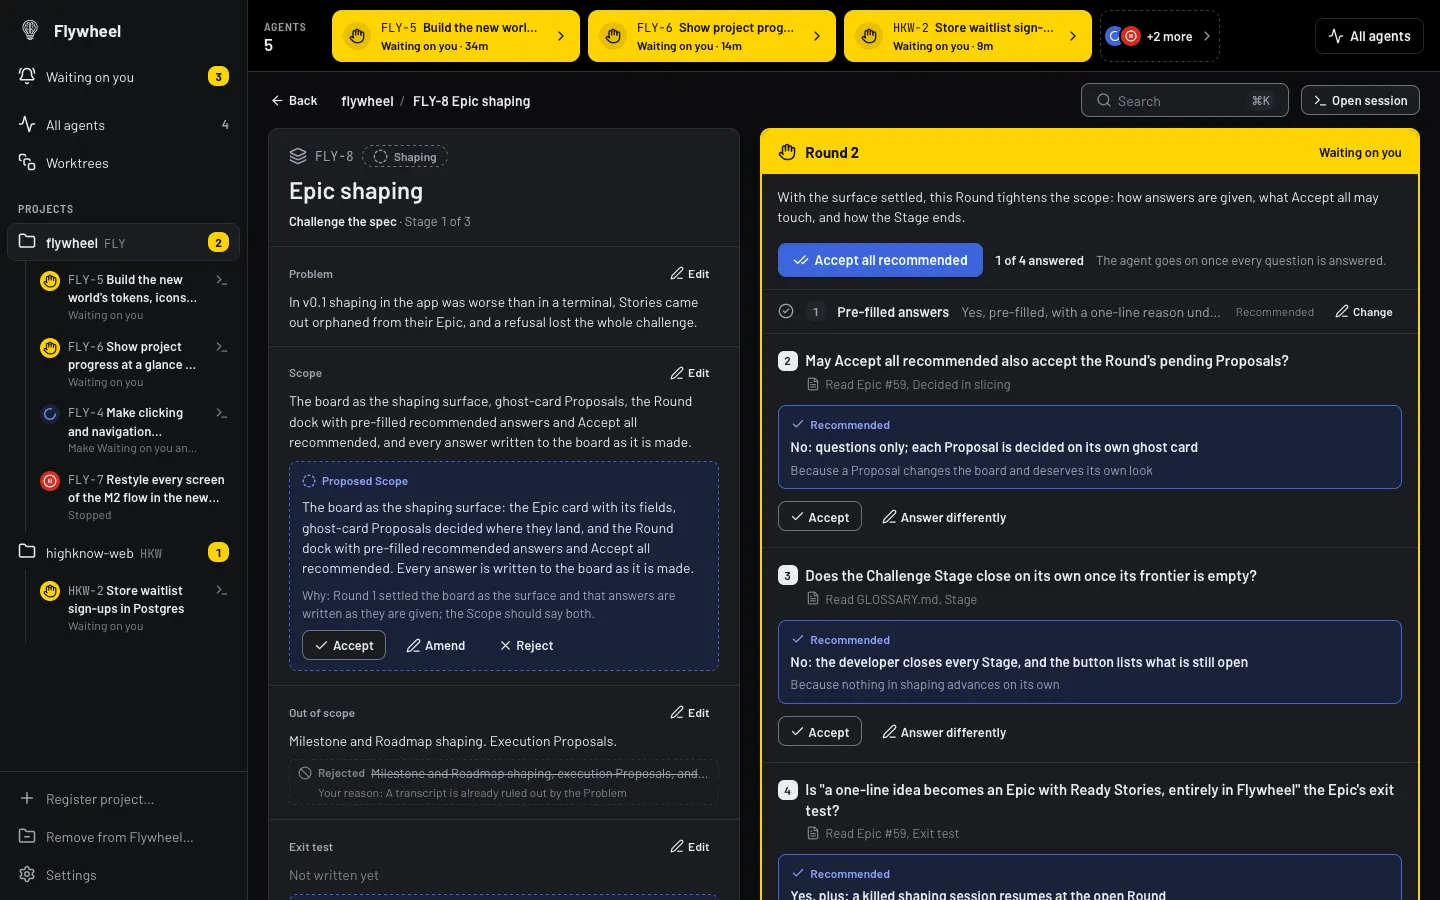
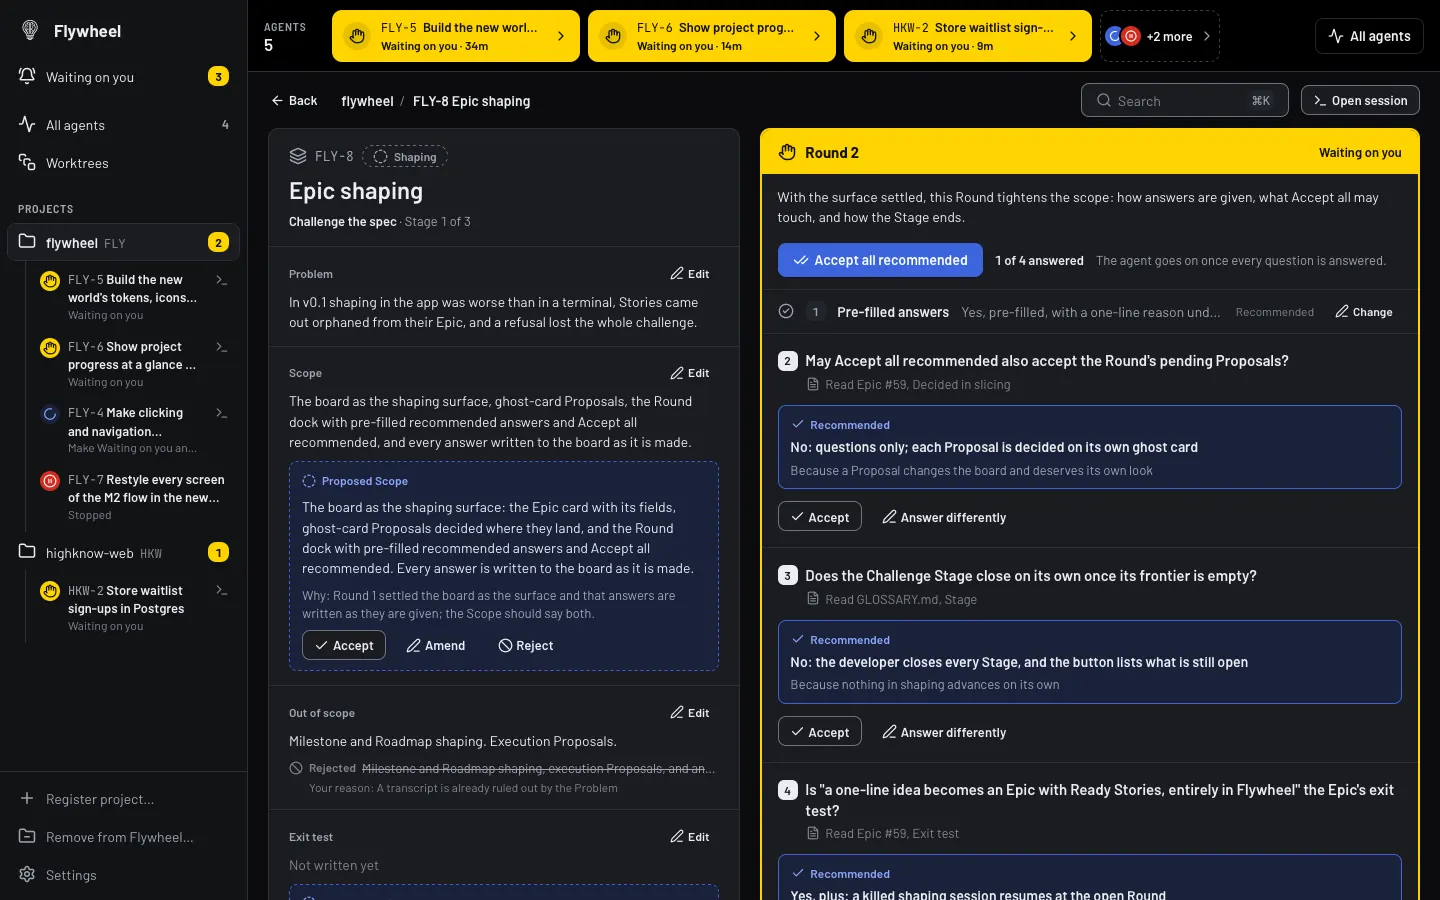
fix: the finish review's findings: a rejected line loses the dashed edge, Amend keeps the agent's why, focus returns on Cancel and lands on Edit once decided, Reject always wears ban, Accept edit's name matches its label, and a 900px screen

Changed region(s): [[0.1875, 0.84, 0.5, 0.9022], [0.1875, 0.9022, 0.5, 1.0]]

diff --git a/packages/desktop/src/shaping/GhostCard.tsx b/packages/desktop/src/shaping/GhostCard.tsx
@@ -13,7 +13,7 @@
  * Rejected, it shrinks to one struck-through line in secondary ink with the reason after it, so the Epic
  * card keeps what was turned down and why, without competing with the live field.
  */
-import { useId, useState, type FormEvent, type KeyboardEvent } from "react";
+import { useId, useRef, useState, type FormEvent, type KeyboardEvent } from "react";
 import { useQueryClient } from "@tanstack/react-query";
 import { Ban, Check, CircleDashed, PenLine, X } from "lucide-react";
 import { proposalAccept, proposalAmend, proposalReject, type ProposalDto } from "../adapters/tauri";
@@ -65,7 +65,7 @@ function RejectedLine({ text, label, reason }: { text: string; label: string; re
       role="group"
       aria-label={`Rejected ${label}`}
       data-state="rejected"
-      className="mt-2 flex min-w-0 flex-col gap-0.5 rounded-sm border border-dashed border-border px-2 py-1"
+      className="mt-2 flex min-w-0 flex-col gap-0.5"
     >
       <span className="flex min-w-0 items-center gap-1.5 text-small text-muted-foreground">
         <Ban aria-hidden="true" className="size-3.5 shrink-0 text-subtle-foreground" />
@@ -104,14 +104,20 @@ function PendingGhost({
   const [why, setWhy] = useState("");
   const [busy, setBusy] = useState(false);
   const [error, setError] = useState<string | null>(null);
+  const rootRef = useRef<HTMLDivElement>(null);
+  const amendRef = useRef<HTMLButtonElement>(null);
+  const rejectRef = useRef<HTMLButtonElement>(null);
 
   async function decide(write: () => Promise<void>) {
     if (busy) return;
     setBusy(true);
     setError(null);
+    // Once decided the ghost unmounts; the keyboard stays on the field, at its Edit button.
+    const fieldEdit = rootRef.current?.closest("dd")?.previousElementSibling?.querySelector("button") ?? null;
     try {
       await write();
       await queryClient.invalidateQueries({ queryKey });
+      fieldEdit?.focus();
     } catch (err) {
       setError(`Could not decide the proposed ${label}: ${reason(err)}`);
       setBusy(false);
@@ -132,12 +138,16 @@ function PendingGhost({
   }
 
   function cancel() {
+    const opener = mode === "amending" ? amendRef : rejectRef;
     setMode("idle");
     setError(null);
+    // Back to the control that opened the mode, once it is mounted again.
+    requestAnimationFrame(() => opener.current?.focus());
   }
 
   return (
     <div
+      ref={rootRef}
       role="group"
       aria-label={`Proposed ${label}`}
       data-state="pending"
@@ -150,6 +160,10 @@ function PendingGhost({
 
       {mode === "amending" ? (
         <form className="flex min-w-0 flex-col gap-2" onSubmit={submitAmend}>
+          {/* The agent's why stays in sight while the developer edits its text. */}
+          {proposal.rationale && (
+            <p className="m-0 max-w-[68ch] text-small break-words text-muted-foreground">Why: {proposal.rationale}</p>
+          )}
           <label htmlFor={draftId} className="sr-only">
             Your {label}
           </label>
@@ -170,7 +184,7 @@ function PendingGhost({
             }}
           />
           <div className="flex flex-wrap items-center gap-2">
-            <Button type="submit" variant="outline" size="sm" disabled={busy || !draft.trim()} aria-label="Accept your edit">
+            <Button type="submit" variant="outline" size="sm" disabled={busy || !draft.trim()} aria-label={`Accept edit to the proposed ${label}`}>
               <Check aria-hidden="true" />
               {busy ? "Saving…" : "Accept edit"}
             </Button>
@@ -235,6 +249,7 @@ function PendingGhost({
             {busy ? "Saving…" : "Accept"}
           </Button>
           <Button
+            ref={amendRef}
             variant="ghost"
             size="sm"
             disabled={busy}
@@ -249,6 +264,7 @@ function PendingGhost({
             Amend
           </Button>
           <Button
+            ref={rejectRef}
             variant="ghost"
             size="sm"
             disabled={busy}
@@ -259,7 +275,7 @@ function PendingGhost({
             }}
             aria-label={`Reject the proposed ${label}`}
           >
-            <X aria-hidden="true" />
+            <Ban aria-hidden="true" />
             Reject
           </Button>
         </div>

diff --git a/packages/desktop/src/shaping/__tests__/ghost-card.test.tsx b/packages/desktop/src/shaping/__tests__/ghost-card.test.tsx
@@ -130,7 +130,7 @@ describe("ghost fields for spec-change Proposals (issue #125)", () => {
     const field = within(card).getByRole("textbox", { name: "Your Scope" }) as HTMLTextAreaElement;
     expect(field.value).toBe("The board, and nothing else.");
     fireEvent.change(field, { target: { value: "The board and the dock, nothing else." } });
-    fireEvent.click(within(card).getByRole("button", { name: "Accept your edit" }));
+    fireEvent.click(within(card).getByRole("button", { name: "Accept edit to the proposed Scope" }));
     await waitFor(() =>
       expect(proposalAmend).toHaveBeenCalledWith("p-scope", { field: "scope", text: "The board and the dock, nothing else." }),
     );
@@ -146,6 +146,16 @@ describe("ghost fields for spec-change Proposals (issue #125)", () => {
     });
     fireEvent.click(within(card).getByRole("button", { name: "Reject" }));
     await waitFor(() => expect(proposalReject).toHaveBeenCalledWith("p-scope", "Too narrow"));
+  });
+
+  it("Amend keeps the agent's why in sight, and Cancel returns the focus to Amend", async () => {
+    renderView();
+    const card = await ghost("Scope");
+    const amend = within(card).getByRole("button", { name: "Amend the proposed Scope" });
+    fireEvent.click(amend);
+    expect(within(card).getByText(/round 1 narrowed it to the board/i)).toBeTruthy();
+    fireEvent.click(within(card).getByRole("button", { name: "Cancel" }));
+    await waitFor(() => expect(document.activeElement).toBe(within(card).getByRole("button", { name: "Amend the proposed Scope" })));
   });
 
   it("Reject with no reason sends none", async () => {

diff --git a/packages/desktop/src/test/critique/m2-flow.critique.browser.test.tsx b/packages/desktop/src/test/critique/m2-flow.critique.browser.test.tsx
@@ -286,6 +286,21 @@ describe.runIf(Boolean(SCHEME))("M2 flow screens", () => {
     await shot("29-epic-shaping-reject-reason");
   });
 
+  it("30 Epic shaping at the window's minimum width: rejecting a ghost field (issue #125)", async () => {
+    await page.viewport(900, 900);
+    try {
+      await boardReady();
+      await click("Answer the Round on FLY-8");
+      await click("Reject the proposed Scope");
+      const reason = await screen.findByRole("textbox", { name: "Why not? (optional)" });
+      await userEvent.type(reason, "Accept all is out of this Epic");
+      reason.closest("[role=group]")?.scrollIntoView({ block: "center" });
+      await shot("30-epic-shaping-ghost-min-width");
+    } finally {
+      await page.viewport(1440, 900);
+    }
+  });
+
   it("16 navigation: picking a project while the fleet is open", async () => {
     await boardReady();
     await click("Open fleet");

diff --git a/DESIGN.md b/DESIGN.md
@@ -319,7 +319,7 @@ A hybrid: regions are told apart by three things together, a ground step, the 1p
 
 ## Shapes
 
-Gently rounded and consistent: cards, popovers and dialogs 10px (`lg`), buttons and inputs 8px (`md`), compact buttons 6px (`sm`), checkboxes 4px, pills and badges fully round. Borders are 1px. A Shaping state pill is the one dashed outline: a dashed control-edge ring on no ground, the shape of something not yet solid.
+Gently rounded and consistent: cards, popovers and dialogs 10px (`lg`), buttons and inputs 8px (`md`), compact buttons 6px (`sm`), checkboxes 4px, pills and badges fully round. Borders are 1px. Two things wear a dashed outline, both meaning "not yet on the record": a Shaping state pill (a dashed control-edge ring on no ground) and a ghost field (a dashed primary edge on the running tint, `shaping/GhostCard.tsx`).
 
 ## Components
 
@@ -368,7 +368,7 @@ The project's Roadmap at the top of the board (`board/RoadmapStrip.tsx`, #131): 
 ### Round Dock
 The Epic's shaping view (`shaping/EpicShapingView.tsx`, #123) is the Epic card beside the dock: from 1280px side by side (card 5 parts, dock 7), below that stacked in reading order: the current Round, the Epic card, then the earlier Rounds (a Sheet, as direction.md first planned, would hide the Epic being shaped behind the questions about it). The Epic card is a title card (`layers`, the key in code face, the state pill, the title at title size, then the Stage and "Stage n of 3" in secondary ink) over the four spec fields, each a meta-size label with a ghost Edit and its prose at a 68ch measure ("Not written yet" in meta ink); editing opens a textarea in place with Save (outline) and Cancel. The dock (`shaping/RoundDock.tsx`) is one card per Round, newest first. A Round the session is held on wears the request card's frame: the 2px attention edge and the yellow band (`hand`, "Round n", "Waiting on you"); any other Round has the inset band and a 1px edge. Under the note, a bar that stays on screen while the questions scroll carries the region's one filled action, Accept all recommended (`check-check`), the tabular "n of m answered" and a hint. Each open question (`shaping/QuestionCard.tsx`) reads: the ink number chip inline before the question at row size (the title is kept for the folded line, never set above the question as an eyebrow), the grounding line in meta ink behind `file-text`, then the recommended answer already filled in, a running-tint box with a 1px primary edge, "Recommended" in running ink behind a check, the answer semibold and its "Because" line in secondary ink; then Accept (outline) and Answer differently (ghost), which opens a textarea on the recommendation, with the recommendation and its reason kept above it in running ink, Send answer, Cancel and a ⌘↩ hint. Not yet built (#124): a Round waiting on you does not light a lamp or count in the sidebar and Needs you; only the dock and the Epic card's Answer say it. An answered question folds to one 44px line: a check, a quiet number chip, the title, the answer in secondary ink, whose answer it was ("Recommended" or "Your answer") in meta ink, and Change (ghost) while the Round is open.
 
-A spec change an agent proposes (`shaping/GhostCard.tsx`, #125) is a ghost of the field it would rewrite, drawn under that field's text on the Epic card, never in an inbox: a 1px dashed primary edge on the running tint (the recommended answer's solid edge, made provisional), "Proposed Scope" in running ink behind `circle-dashed`, the agent's whole new text at the field's 68ch measure, its "Why:" line in secondary ink, then Accept (outline), Amend (ghost) and Reject (ghost). Amend opens a textarea on the proposed text with Accept edit (outline), Cancel and a ⌘↩ hint: editing and accepting are one act. Reject opens a one-line "Why not? (optional)" field beside Reject (outline) and Cancel. A rejected spec change shrinks to a dashed-edge, unfilled two-line block: `ban`, "Rejected" and the text struck through in secondary ink, then "Your reason: …" in meta ink. No blue fill and no yellow: a pending Proposal never holds the agent, so it is never Waiting on you.
+A spec change an agent proposes (`shaping/GhostCard.tsx`, #125) is a ghost of the field it would rewrite, drawn under that field's text on the Epic card, never in an inbox: a 1px dashed primary edge on the running tint (the recommended answer's solid edge, made provisional), "Proposed Scope" in running ink behind `circle-dashed`, the agent's whole new text at the field's 68ch measure, its "Why:" line in secondary ink, then Accept (outline), Amend (ghost) and Reject (ghost). Amend opens a textarea on the proposed text with Accept edit (outline), Cancel and a ⌘↩ hint: editing and accepting are one act. Reject opens a one-line "Why not? (optional)" field beside Reject (outline) and Cancel. A rejected spec change is decided, so it loses the dashed edge and shrinks to two plain lines with no ground: `ban`, "Rejected" and the text struck through in secondary ink, then "Your reason: …" in meta ink. Reject always wears `ban`; `x` only ever means Cancel. Amend keeps the agent's "Why:" line above the textarea, and Cancel returns the focus to the button that opened the mode; once decided, the focus lands on the field's Edit. No blue fill and no yellow: a pending Proposal never holds the agent, so it is never Waiting on you.
 
 ### Feed Rows
 A tool call is one line (`session/FeedRow.tsx`, worded by `session/toolVerbs.ts`): the disclosure chevron, the kind's Lucide icon, a plain verb in a 108px semibold column (Read, Edited, Wrote, Ran, Searched; board tools by their meaning: Added Task, Finished Task, Ran Checks, Handed off, Posted Round, which reads "Waiting on your answers" while it is held), what it acted on (code face for paths and commands, reading face for Task titles), then the metrics column on the right in meta ink, tabular: lines, `+added −removed`, "done" in ink for a clean command or "exit n" for a failed one, Check results, and the duration. A failed command is neutral ink beside `circle-x`; only a failed Check is red. Search targets are quoted, with the place searched ("“Dropped” in GLOSSARY.md"); a tool Flywheel has no verb for reads "Used" and its name in words. A call in flight reads in the progressive ("Running"), the loader leading its clock in running ink. No raw `mcp__` tool name is printed anywhere outside View raw.

diff --git a/docs/design/critique-2026-10.md b/docs/design/critique-2026-10.md
@@ -132,6 +132,7 @@ and "n of m Stories merged" (each Epic appears once). See 01 above and 17 below.
 | 27 | Epic shaping: spec changes as ghost fields under the field each would rewrite, a rejected one struck through (#125) | ![](critique-2026-10/after/27-epic-shaping-ghost-fields-light.webp) | ![](critique-2026-10/after/27-epic-shaping-ghost-fields-dark.webp) |
 | 28 | Epic shaping: Amend opens the proposed text, accepted as edited in one act (#125) | ![](critique-2026-10/after/28-epic-shaping-amend-light.webp) | ![](critique-2026-10/after/28-epic-shaping-amend-dark.webp) |
 | 29 | Epic shaping: Reject asks for an optional reason (#125) | ![](critique-2026-10/after/29-epic-shaping-reject-reason-light.webp) | ![](critique-2026-10/after/29-epic-shaping-reject-reason-dark.webp) |
+| 30 | Epic shaping at the window's minimum width: rejecting a ghost field (#125) | ![](critique-2026-10/after/30-epic-shaping-ghost-min-width-light.webp) | ![](critique-2026-10/after/30-epic-shaping-ghost-min-width-dark.webp) |
 
 ## How the screens were rendered
 
